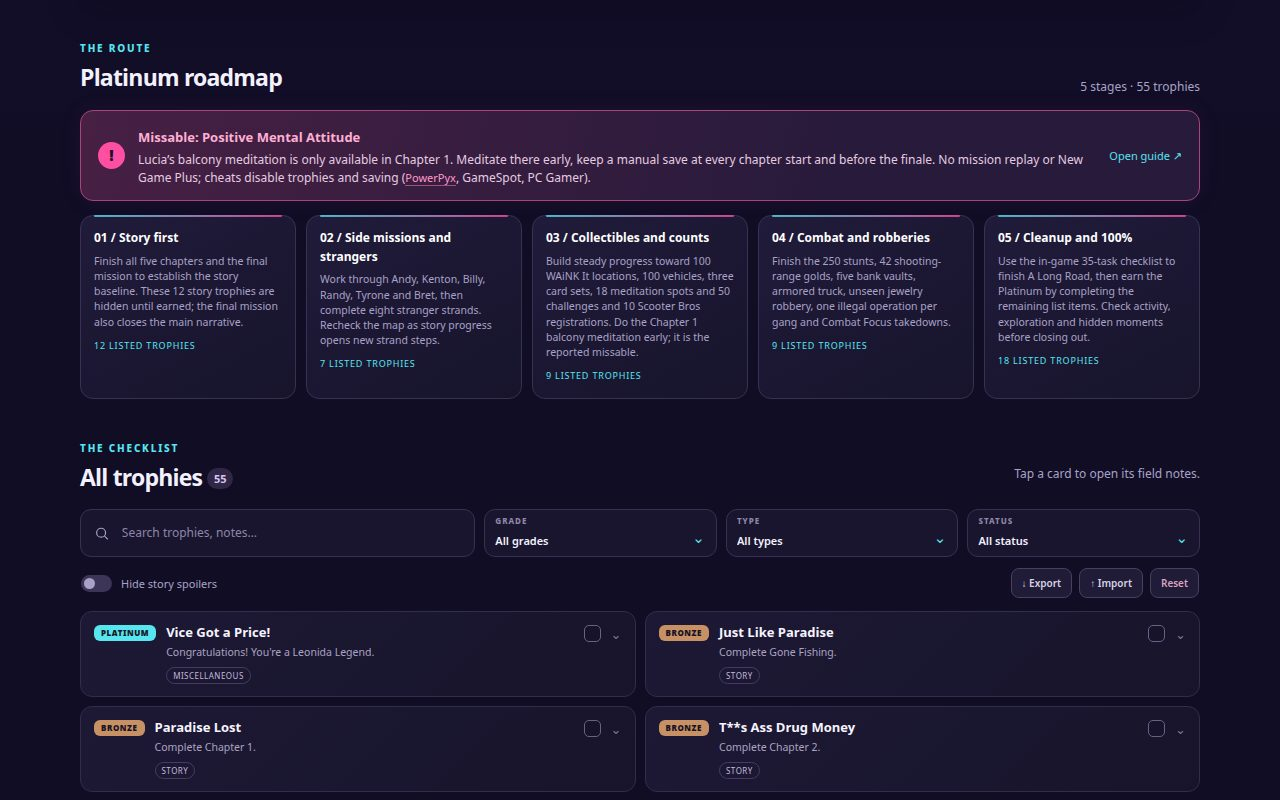
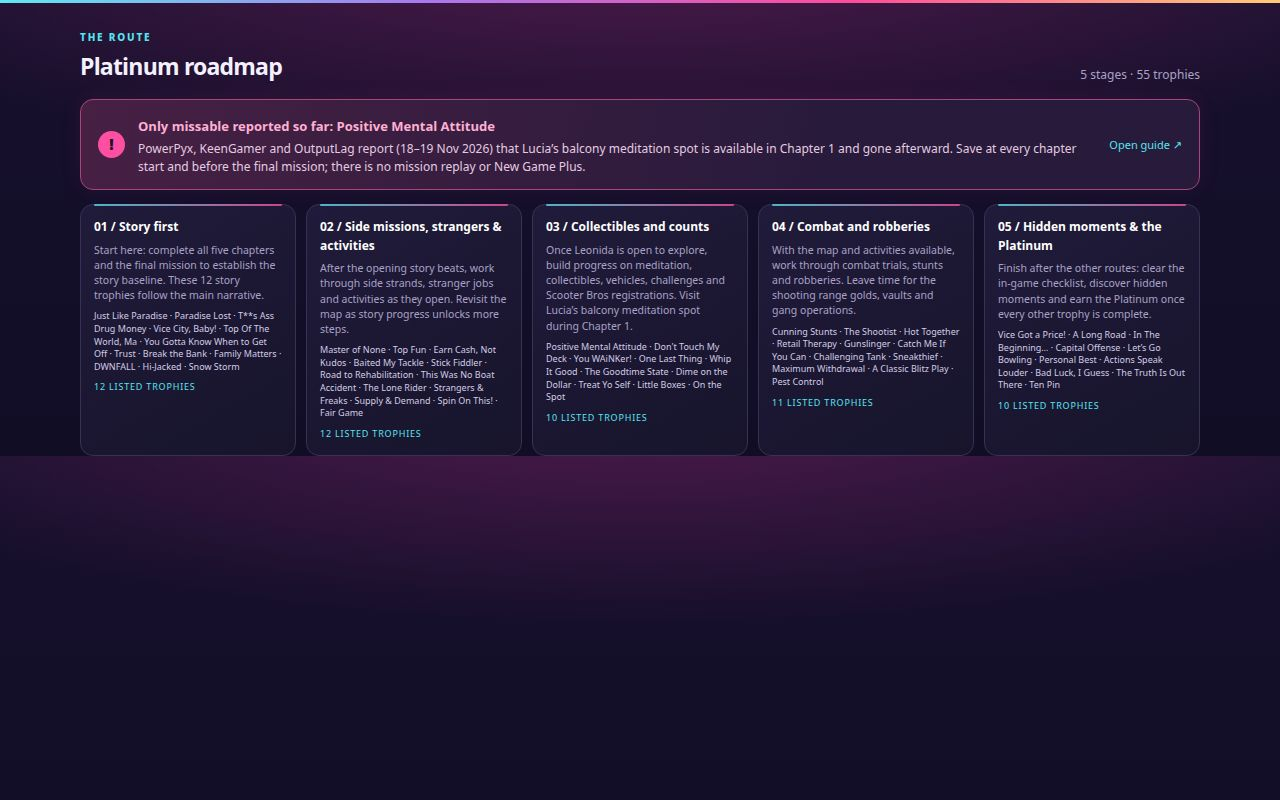
Polish trophy atlas roadmap and captures

diff --git a/app/style.css b/app/style.css
@@ -1,4 +1,9 @@
-:root{color-scheme:dark;--bg:#100d25;--panel:#19152f;--panel2:#211b3d;--line:#383154;--ink:#f4f1ff;--muted:#aaa2c6;--pink:#ff4fa3;--cyan:#57e5ef;--gold:#ffcf70;--silver:#c5c8d5;--bronze:#c89165;--radius:16px}*{box-sizing:border-box}html{scroll-behavior:smooth}body{margin:0;background:radial-gradient(ellipse 100% 360px at 50% -80px,rgba(201,48,143,.35),transparent 70%),linear-gradient(180deg,#17102d 0,#100d25 480px);color:var(--ink);font:15px/1.55 system-ui,-apple-system,"Segoe UI",sans-serif}.top-glow{position:absolute;inset:0 0 auto;height:3px;background:linear-gradient(90deg,#5eeaf1,#a879ee,#ff4c9b,#ffcb76)}.site-header,main,footer{width:min(1120px,calc(100% - 48px));margin-inline:auto}.site-header{display:flex;align-items:center;gap:19px;padding:45px 0 26px}.brand-mark{width:64px;height:64px;display:grid;place-items:center;border:1px solid rgba(87,229,239,.6);border-radius:18px;transform:rotate(-5deg);background:linear-gradient(145deg,rgba(87,229,239,.15),rgba(255,79,163,.15));box-shadow:0 0 35px rgba(255,79,163,.12)}.brand-mark span{font-weight:850;font-size:25px;letter-spacing:-2px;color:var(--cyan);transform:rotate(5deg)}.brand-copy{flex:1}.eyebrow{margin:0;color:var(--cyan);font-size:10px;font-weight:800;letter-spacing:.18em}.brand-copy h1{margin:3px 0 0;font-size:clamp(26px,4vw,40px);line-height:1.08;letter-spacing:-.045em}.brand-copy h1 em{font-style:normal;color:#ff83bf}.subtitle{margin:7px 0 0;color:var(--muted);font-size:14px}.completion-ring{width:76px;height:76px;border:2px solid rgba(87,229,239,.65);border-radius:50%;display:flex;flex-direction:column;align-items:center;justify-content:center;box-shadow:inset 0 0 20px #57e5ef13,0 0 23px #57e5ef11}.completion-ring strong{font-size:21px;line-height:1;color:var(--cyan)}.completion-ring span{font-size:9px;text-transform:uppercase;letter-spacing:.08em;color:var(--muted);margin-top:4px}.progress-panel{padding:19px 22px 15px;border:1px solid var(--line);border-radius:var(--radius);background:linear-gradient(110deg,#201735,#18142f 65%,#191a37);box-shadow:0 12px 35px #09061744}.progress-head{display:flex;align-items:center;justify-content:space-between}.progress-head h2{margin:1px 0 0;font-size:20px}.progress-note,.section-meta{color:var(--muted);font-size:12px}.progress-track{height:8px;border-radius:10px;background:#342c4e;margin:15px 0 12px;overflow:hidden}.progress-track span{height:100%;width:0;display:block;border-radius:inherit;background:linear-gradient(90deg,var(--cyan),#a185ff,var(--pink));transition:width .25s;box-shadow:0 0 14px #ff4fa366}.grade-counts{display:flex;gap:22px;flex-wrap:wrap}.grade-count{display:flex;gap:6px;align-items:center;font-size:11px;color:var(--muted)}.grade-count b{color:var(--ink);font-size:12px}.grade-dot{width:7px;height:7px;border-radius:50%;background:var(--grade)}.roadmap-section,.tracker-section{padding-top:35px}.section-heading{display:flex;align-items:end;justify-content:space-between;margin-bottom:14px}.section-heading h2{font-size:23px;letter-spacing:-.035em;margin:2px 0 0}.missable-banner{display:flex;gap:13px;align-items:center;padding:14px 17px;margin-bottom:14px;border:1px solid #a6467c;border-radius:13px;background:linear-gradient(100deg,#472044,#271a3b 70%);box-shadow:0 0 24px #ff4fa312}.alert-icon{display:grid;place-items:center;width:27px;height:27px;flex:none;border-radius:50%;background:#ff4fa3;color:#210e29;font-weight:900}.missable-banner strong{font-size:13px;color:#ffafd4}.missable-banner p{margin:3px 0 0;color:#e4cce0;font-size:12px;line-height:1.45}.missable-banner a{margin-left:auto;white-space:nowrap;color:var(--cyan);font-size:11px;text-decoration:none}.roadmap-grid{display:grid;grid-template-columns:repeat(5,1fr);gap:10px}.roadmap-card{position:relative;min-height:136px;padding:13px 13px 12px;background:linear-gradient(150deg,#201b3a,#17142c);border:1px solid var(--line);border-radius:13px}.roadmap-card:before{position:absolute;content:"";left:13px;right:13px;top:-1px;height:2px;background:linear-gradient(90deg,var(--cyan),var(--pink));opacity:.75;border-radius:4px}.roadmap-card h3{margin:0 0 6px;color:#fff;font-size:12px}.roadmap-card p{margin:0;color:var(--muted);font-size:10.5px;line-height:1.45}.stage-count{display:inline-block;margin-top:9px;color:var(--cyan);font-size:9px;letter-spacing:.09em;text-transform:uppercase}.tracker-heading{margin-top:1px}.tracker-heading h2 span{display:inline-grid;place-items:center;vertical-align:3px;min-width:26px;height:21px;padding:0 6px;border-radius:11px;background:#302746;color:#d9c5ef;font-size:11px;letter-spacing:0}.toolbar{display:grid;grid-template-columns:minmax(220px,1.7fr) repeat(3,minmax(130px,1fr));gap:9px}.search-box,.select-wrap{height:48px;display:flex;align-items:center;background:#19152e;border:1px solid var(--line);border-radius:11px}.search-box{padding:0 13px;gap:10px}.search-box svg{width:17px;height:17px;fill:none;stroke:var(--muted);stroke-width:1.8}.search-box input{width:100%;background:none;border:0;outline:0;color:var(--ink);font:inherit;font-size:12px}.search-box input::placeholder{color:#8d85a9}.select-wrap{position:relative;padding:5px 10px 3px;display:block}.select-wrap span{display:block;color:#8f87aa;font-size:8px;letter-spacing:.12em;font-weight:800}.select-wrap select{width:100%;padding:0 13px 0 0;border:0;outline:0;background:transparent;color:var(--ink);font:600 11px system-ui;appearance:none}.select-wrap:after{content:"⌄";position:absolute;right:11px;bottom:7px;color:var(--cyan);pointer-events:none}.select-wrap option{background:#19152e}.toolbar-bottom{display:flex;justify-content:space-between;align-items:center;margin:11px 1px 13px}.spoiler-switch{display:flex;align-items:center;gap:9px;color:var(--muted);font-size:11px;cursor:pointer}.spoiler-switch input{position:absolute;opacity:0}.switch-ui{width:31px;height:17px;background:#3c3557;border-radius:10px;position:relative;transition:.18s}.switch-ui:after{content:"";position:absolute;top:3px;left:3px;width:11px;height:11px;border-radius:50%;background:#aaa2c6;transition:.18s}.spoiler-switch input:checked+.switch-ui{background:#87426c}.spoiler-switch input:checked+.switch-ui:after{left:17px;background:#ff8aba}.data-actions{display:flex;gap:7px}.quiet-button{display:inline-flex;align-items:center;justify-content:center;gap:4px;min-height:30px;padding:4px 10px;border:1px solid #48405e;border-radius:8px;background:#201b36;color:#d9d3e9;font:600 10px system-ui;text-decoration:none;cursor:pointer}.quiet-button:hover{border-color:var(--cyan);color:var(--cyan)}.import-button input{display:none}.reset-button{color:#d9a4c3}.trophy-list{display:grid;grid-template-columns:repeat(2,minmax(0,1fr));gap:9px}.trophy-card{align-self:start;background:linear-gradient(135deg,#1d1935,#17142b);border:1px solid #332c4b;border-radius:12px;overflow:hidden;transition:border-color .15s,transform .15s}.trophy-card:hover{border-color:#63527d;transform:translateY(-1px)}.trophy-card.is-earned{border-color:#306067;background:linear-gradient(135deg,#192836,#17152e)}.card-top{display:flex;align-items:flex-start;gap:10px;padding:12px 13px;cursor:pointer}.grade-badge{flex:none;margin-top:1px;padding:3px 7px;border-radius:6px;color:#171326;background:var(--grade);font-size:8px;line-height:1.2;font-weight:900;letter-spacing:.07em;text-transform:uppercase}.grade-platinum{--grade:var(--cyan)}.grade-gold{--grade:var(--gold)}.grade-silver{--grade:var(--silver)}.grade-bronze{--grade:var(--bronze)}.card-copy{min-width:0;flex:1}.card-copy h3{font-size:13px;line-height:1.3;margin:0;color:#f7f3ff}.card-copy p{font-size:10.5px;line-height:1.4;color:#aba4c1;margin:4px 0 0}.card-tags{display:flex;gap:5px;flex-wrap:wrap;margin-top:7px}.tag{padding:2px 6px;border:1px solid #453c60;border-radius:20px;color:#c4badb;font-size:8px;line-height:1.4;text-transform:uppercase;letter-spacing:.06em}.tag.missable{border-color:#a6467c;background:#5a2447;color:#ffadd2}.earned-check{flex:none;display:flex;align-items:center;margin:1px 0 0;cursor:pointer}.earned-check input{appearance:none;width:17px;height:17px;margin:0;border:1px solid #6b6188;border-radius:5px;background:#17132a;cursor:pointer}.earned-check input:checked{border-color:var(--cyan);background:var(--cyan)}.earned-check input:checked:after{content:"✓";display:block;text-align:center;color:#11152a;font-size:12px;font-weight:900;line-height:15px}.expand-cue{color:#817797;font-size:13px;transition:transform .15s}.trophy-card.is-open .expand-cue{transform:rotate(180deg);color:var(--pink)}.guide-panel{display:none;padding:0 13px 13px 46px}.trophy-card.is-open .guide-panel{display:block}.guide-panel h4{margin:0 0 4px;color:var(--cyan);font-size:9px;letter-spacing:.11em;text-transform:uppercase}.guide-panel p{margin:0;color:#d3cde2;font-size:11px;line-height:1.55}.source-list{display:flex;gap:5px;flex-wrap:wrap;margin-top:6px}.source-list a{color:#ff8abd;font-size:10px;text-decoration:none;border-bottom:1px solid #944d79}.source-list a:hover{color:var(--cyan);border-color:var(--cyan)}.empty-state{text-align:center;color:var(--muted);padding:35px}.sr-only{position:absolute;width:1px;height:1px;padding:0;margin:-1px;overflow:hidden;clip:rect(0,0,0,0);white-space:nowrap;border:0}footer{display:flex;justify-content:space-between;padding:30px 0 24px;margin-top:30px;border-top:1px solid #302944;color:#776f91;font-size:9px;letter-spacing:.1em}footer span:last-child{letter-spacing:0}@media(max-width:850px){.roadmap-grid{grid-template-columns:repeat(3,1fr)}.toolbar{grid-template-columns:1fr 1fr}.search-box{grid-column:span 2}.trophy-list{grid-template-columns:1fr}}@media(max-width:560px){.site-header,main,footer{width:calc(100% - 28px)}.site-header{padding-top:28px;gap:12px}.brand-mark{width:48px;height:48px;border-radius:14px}.brand-mark span{font-size:20px}.completion-ring{width:59px;height:59px}.completion-ring strong{font-size:17px}.brand-copy h1{font-size:24px}.subtitle{font-size:12px}.progress-panel{padding:15px}.progress-note{display:none}.grade-counts{gap:11px}.roadmap-grid{grid-template-columns:1fr 1fr}.roadmap-card:last-child{grid-column:span 2}.roadmap-card{min-height:130px}.missable-banner{align-items:flex-start}.missable-banner a{display:none}.section-heading h2{font-size:21px}.toolbar{gap:7px}.toolbar-bottom{align-items:flex-start;gap:12px;flex-direction:column}.data-actions{width:100%}.data-actions>*{flex:1}.tracker-heading .section-meta{max-width:120px;text-align:right}.card-top{padding:11px}.guide-panel{padding-left:40px}footer{font-size:8px}}
+:root{color-scheme:dark;--bg:#100d25;--panel:#19152f;--panel2:#211b3d;--line:#383154;--ink:#f4f1ff;--muted:#aaa2c6;--pink:#ff4fa3;--cyan:#57e5ef;--gold:#ffcf70;--silver:#c5c8d5;--bronze:#c89165;--radius:16px}*{box-sizing:border-box}html{scroll-behavior:auto}body{margin:0;background:radial-gradient(ellipse 100% 360px at 50% -80px,rgba(201,48,143,.35),transparent 70%),linear-gradient(180deg,#17102d 0,#100d25 480px);color:var(--ink);font:15px/1.55 system-ui,-apple-system,"Segoe UI",sans-serif}.top-glow{position:absolute;inset:0 0 auto;height:3px;background:linear-gradient(90deg,#5eeaf1,#a879ee,#ff4c9b,#ffcb76)}.site-header,main,footer{width:min(1120px,calc(100% - 48px));margin-inline:auto}.site-header{display:flex;align-items:center;gap:19px;padding:45px 0 26px}.brand-mark{width:64px;height:64px;display:grid;place-items:center;border:1px solid rgba(87,229,239,.6);border-radius:18px;transform:rotate(-5deg);background:linear-gradient(145deg,rgba(87,229,239,.15),rgba(255,79,163,.15));box-shadow:0 0 35px rgba(255,79,163,.12)}.brand-mark span{font-weight:850;font-size:25px;letter-spacing:-2px;color:var(--cyan);transform:rotate(5deg)}.brand-copy{flex:1}.eyebrow{margin:0;color:var(--cyan);font-size:10px;font-weight:800;letter-spacing:.18em}.brand-copy h1{margin:3px 0 0;font-size:clamp(26px,4vw,40px);line-height:1.08;letter-spacing:-.045em}.brand-copy h1 em{font-style:normal;color:#ff83bf}.subtitle{margin:7px 0 0;color:var(--muted);font-size:14px}.completion-ring{width:76px;height:76px;border:2px solid rgba(87,229,239,.65);border-radius:50%;display:flex;flex-direction:column;align-items:center;justify-content:center;box-shadow:inset 0 0 20px #57e5ef13,0 0 23px #57e5ef11}.completion-ring strong{font-size:21px;line-height:1;color:var(--cyan)}.completion-ring span{font-size:9px;text-transform:uppercase;letter-spacing:.08em;color:var(--muted);margin-top:4px}.progress-panel{padding:19px 22px 15px;border:1px solid var(--line);border-radius:var(--radius);background:linear-gradient(110deg,#201735,#18142f 65%,#191a37);box-shadow:0 12px 35px #09061744}.progress-head{display:flex;align-items:center;justify-content:space-between}.progress-head h2{margin:1px 0 0;font-size:20px}.progress-note,.section-meta{color:var(--muted);font-size:12px}.progress-track{height:8px;border-radius:10px;background:#342c4e;margin:15px 0 12px;overflow:hidden}.progress-track span{height:100%;width:0;display:block;border-radius:inherit;background:linear-gradient(90deg,var(--cyan),#a185ff,var(--pink));transition:width .25s;box-shadow:0 0 14px #ff4fa366}.grade-counts{display:flex;gap:22px;flex-wrap:wrap}.grade-count{display:flex;gap:6px;align-items:center;font-size:11px;color:var(--muted)}.grade-count b{color:var(--ink);font-size:12px}.grade-dot{width:7px;height:7px;border-radius:50%;background:var(--grade)}.roadmap-section,.tracker-section{padding-top:35px}.section-heading{display:flex;align-items:end;justify-content:space-between;margin-bottom:14px}.section-heading h2{font-size:23px;letter-spacing:-.035em;margin:2px 0 0}.missable-banner{display:flex;gap:13px;align-items:center;padding:14px 17px;margin-bottom:14px;border:1px solid #a6467c;border-radius:13px;background:linear-gradient(100deg,#472044,#271a3b 70%);box-shadow:0 0 24px #ff4fa312}.alert-icon{display:grid;place-items:center;width:27px;height:27px;flex:none;border-radius:50%;background:#ff4fa3;color:#210e29;font-weight:900}.missable-banner strong{font-size:13px;color:#ffafd4}.missable-banner p{margin:3px 0 0;color:#e4cce0;font-size:12px;line-height:1.45}.missable-banner a{margin-left:auto;white-space:nowrap;color:var(--cyan);font-size:11px;text-decoration:none}.roadmap-grid{display:grid;grid-template-columns:repeat(5,1fr);gap:10px}.roadmap-card{position:relative;min-height:136px;padding:13px 13px 12px;background:linear-gradient(150deg,#201b3a,#17142c);border:1px solid var(--line);border-radius:13px}.roadmap-card:before{position:absolute;content:"";left:13px;right:13px;top:-1px;height:2px;background:linear-gradient(90deg,var(--cyan),var(--pink));opacity:.75;border-radius:4px}.roadmap-card h3{margin:0 0 6px;color:#fff;font-size:12px}.roadmap-card p{margin:0;color:var(--muted);font-size:10.5px;line-height:1.45}.stage-count{display:inline-block;margin-top:9px;color:var(--cyan);font-size:9px;letter-spacing:.09em;text-transform:uppercase}.tracker-heading{margin-top:1px}.tracker-heading h2 span{display:inline-grid;place-items:center;vertical-align:3px;min-width:26px;height:21px;padding:0 6px;border-radius:11px;background:#302746;color:#d9c5ef;font-size:11px;letter-spacing:0}.toolbar{display:grid;grid-template-columns:minmax(220px,1.7fr) repeat(3,minmax(130px,1fr));gap:9px}.search-box,.select-wrap{height:48px;display:flex;align-items:center;background:#19152e;border:1px solid var(--line);border-radius:11px}.search-box{padding:0 13px;gap:10px}.search-box svg{width:17px;height:17px;fill:none;stroke:var(--muted);stroke-width:1.8}.search-box input{width:100%;background:none;border:0;outline:0;color:var(--ink);font:inherit;font-size:12px}.search-box input::placeholder{color:#8d85a9}.select-wrap{position:relative;padding:5px 10px 3px;display:block}.select-wrap span{display:block;color:#8f87aa;font-size:8px;letter-spacing:.12em;font-weight:800}.select-wrap select{width:100%;padding:0 13px 0 0;border:0;outline:0;background:transparent;color:var(--ink);font:600 11px system-ui;appearance:none}.select-wrap:after{content:"⌄";position:absolute;right:11px;bottom:7px;color:var(--cyan);pointer-events:none}.select-wrap option{background:#19152e}.toolbar-bottom{display:flex;justify-content:space-between;align-items:center;margin:11px 1px 13px}.spoiler-switch{display:flex;align-items:center;gap:9px;color:var(--muted);font-size:11px;cursor:pointer}.spoiler-switch input{position:absolute;opacity:0}.switch-ui{width:31px;height:17px;background:#3c3557;border-radius:10px;position:relative;transition:.18s}.switch-ui:after{content:"";position:absolute;top:3px;left:3px;width:11px;height:11px;border-radius:50%;background:#aaa2c6;transition:.18s}.spoiler-switch input:checked+.switch-ui{background:#87426c}.spoiler-switch input:checked+.switch-ui:after{left:17px;background:#ff8aba}.data-actions{display:flex;gap:7px}.quiet-button{display:inline-flex;align-items:center;justify-content:center;gap:4px;min-height:30px;padding:4px 10px;border:1px solid #48405e;border-radius:8px;background:#201b36;color:#d9d3e9;font:600 10px system-ui;text-decoration:none;cursor:pointer}.quiet-button:hover{border-color:var(--cyan);color:var(--cyan)}.import-button input{display:none}.reset-button{color:#d9a4c3}.trophy-list{display:grid;grid-template-columns:repeat(2,minmax(0,1fr));gap:9px}.trophy-card{align-self:start;background:linear-gradient(135deg,#1d1935,#17142b);border:1px solid #332c4b;border-radius:12px;overflow:hidden;transition:border-color .15s,transform .15s}.trophy-card:hover{border-color:#63527d;transform:translateY(-1px)}.trophy-card.is-earned{border-color:#306067;background:linear-gradient(135deg,#192836,#17152e)}.card-top{display:flex;align-items:flex-start;gap:10px;padding:12px 13px;cursor:pointer}.grade-badge{flex:none;margin-top:1px;padding:3px 7px;border-radius:6px;color:#171326;background:var(--grade);font-size:8px;line-height:1.2;font-weight:900;letter-spacing:.07em;text-transform:uppercase}.grade-platinum{--grade:var(--cyan)}.grade-gold{--grade:var(--gold)}.grade-silver{--grade:var(--silver)}.grade-bronze{--grade:var(--bronze)}.card-copy{min-width:0;flex:1}.card-copy h3{font-size:13px;line-height:1.3;margin:0;color:#f7f3ff}.card-copy p{font-size:10.5px;line-height:1.4;color:#aba4c1;margin:4px 0 0}.card-tags{display:flex;gap:5px;flex-wrap:wrap;margin-top:7px}.tag{padding:2px 6px;border:1px solid #453c60;border-radius:20px;color:#c4badb;font-size:8px;line-height:1.4;text-transform:uppercase;letter-spacing:.06em}.tag.missable{border-color:#a6467c;background:#5a2447;color:#ffadd2}.earned-check{flex:none;display:flex;align-items:center;margin:1px 0 0;cursor:pointer}.earned-check input{appearance:none;width:17px;height:17px;margin:0;border:1px solid #6b6188;border-radius:5px;background:#17132a;cursor:pointer}.earned-check input:checked{border-color:var(--cyan);background:var(--cyan)}.earned-check input:checked:after{content:"✓";display:block;text-align:center;color:#11152a;font-size:12px;font-weight:900;line-height:15px}.expand-cue{color:#817797;font-size:13px;transition:transform .15s}.trophy-card.is-open .expand-cue{transform:rotate(180deg);color:var(--pink)}.guide-panel{display:none;padding:0 13px 13px 46px}.trophy-card.is-open .guide-panel{display:block}.guide-panel h4{margin:0 0 4px;color:var(--cyan);font-size:9px;letter-spacing:.11em;text-transform:uppercase}.guide-panel p{margin:0;color:#d3cde2;font-size:11px;line-height:1.55}.source-list{display:flex;gap:5px;flex-wrap:wrap;margin-top:6px}.source-list a{color:#ff8abd;font-size:10px;text-decoration:none;border-bottom:1px solid #944d79}.source-list a:hover{color:var(--cyan);border-color:var(--cyan)}.empty-state{text-align:center;color:var(--muted);padding:35px}.sr-only{position:absolute;width:1px;height:1px;padding:0;margin:-1px;overflow:hidden;clip:rect(0,0,0,0);white-space:nowrap;border:0}footer{display:flex;justify-content:space-between;padding:30px 0 24px;margin-top:30px;border-top:1px solid #302944;color:#776f91;font-size:9px;letter-spacing:.1em}footer span:last-child{letter-spacing:0}@media(max-width:850px){.roadmap-grid{grid-template-columns:repeat(3,1fr)}.toolbar{grid-template-columns:1fr 1fr}.search-box{grid-column:span 2}.trophy-list{grid-template-columns:1fr}}@media(max-width:560px){.site-header,main,footer{width:calc(100% - 28px)}.site-header{padding-top:28px;gap:12px}.brand-mark{width:48px;height:48px;border-radius:14px}.brand-mark span{font-size:20px}.completion-ring{width:59px;height:59px}.completion-ring strong{font-size:17px}.brand-copy h1{font-size:24px}.subtitle{font-size:12px}.progress-panel{padding:15px}.progress-note{display:none}.grade-counts{gap:11px}.roadmap-grid{grid-template-columns:1fr 1fr}.roadmap-card:last-child{grid-column:span 2}.roadmap-card{min-height:130px}.missable-banner{align-items:flex-start}.missable-banner a{display:none}.section-heading h2{font-size:21px}.toolbar{gap:7px}.toolbar-bottom{align-items:flex-start;gap:12px;flex-direction:column}.data-actions{width:100%}.data-actions>*{flex:1}.tracker-heading .section-meta{max-width:120px;text-align:right}.card-top{padding:11px}.guide-panel{padding-left:40px}footer{font-size:8px}}
 /* A compact capture route keeps the dashboard, filters and the first cards together at 1280×800. */
 body.cover-capture{zoom:.8}body.cover-capture .site-header,body.cover-capture main,body.cover-capture footer{width:min(1400px,calc(100% - 48px))}
 .missable-banner p a{color:#ff9aca;text-decoration:none;border-bottom:1px solid #9d547a}.missable-banner p a:hover{color:var(--cyan)}
+
+.roadmap-card .stage-trophies{margin-top:7px;color:#d4cce6;font-size:9px;line-height:1.4}.roadmap-card .stage-count{margin-top:7px}footer{display:block;line-height:1.7;letter-spacing:0}footer span:first-child{display:block;margin-bottom:4px;letter-spacing:.1em}footer span:last-child{display:block}
+
+body.guide-capture .site-header,body.guide-capture .progress-panel,body.guide-capture .roadmap-section,body.guide-capture .tracker-heading,body.guide-capture .toolbar,body.guide-capture .toolbar-bottom,body.guide-capture footer{display:none}body.guide-capture .tracker-section{padding-top:24px}body.guide-capture .trophy-card:not(#trophy-28){display:none}body.roadmap-capture .site-header,body.roadmap-capture .progress-panel,body.roadmap-capture .tracker-section,body.roadmap-capture footer{display:none}body.roadmap-capture .roadmap-section{padding-top:24px}body.filter-capture .site-header,body.filter-capture .progress-panel,body.filter-capture .roadmap-section,body.filter-capture footer{display:none}body.filter-capture .tracker-section{padding-top:24px}
+body.cover-capture .roadmap-section,body.cover-capture .tracker-section{padding-top:16px}body.cover-capture .tracker-heading{margin-bottom:7px}body.cover-capture .toolbar,body.cover-capture .toolbar-bottom{display:none}body.cover-capture .trophy-list{grid-template-columns:repeat(3,minmax(0,1fr))}

diff --git a/app/app.js b/app/app.js
@@ -43,7 +43,7 @@ function renderRoadmap() {
     <article class="roadmap-card">
       <h3>${escapeText(stage.title)}</h3>
       <p>${escapeText(stage.summary)}</p>
-      <span class="stage-count">${stage.trophyIds.length} listed trophies</span>
+      <p class="stage-trophies">${stage.trophyIds.map(id => trophyData.trophies.find(trophy => trophy.id === id)?.name).filter(Boolean).map(escapeText).join(" · ")}</p><span class="stage-count">${stage.trophyIds.length} listed trophies</span>
     </article>`).join('');
 }
 
@@ -170,20 +170,23 @@ async function importProgress(file) {
 
 function applyHashState() {
   const hash = location.hash;
-  document.body.classList.toggle('cover-capture', hash === '#cover');
+  document.body.classList.toggle('cover-capture', hash === '#cover' || hash === '#demo-earned');
+  document.body.classList.toggle('guide-capture', hash === '#trophy-28');
+  document.body.classList.toggle('roadmap-capture', hash === '#roadmap');
+  document.body.classList.toggle('filter-capture', hash.includes('='));
+  if (hash === '#demo-earned') {
+    earnedIds = new Set([2, 3, 14, 28, 31, 40]);
+    renderTrophies();
+    return;
+  }
   if (hash === '#spoilers-on') {
     setSpoilerPreference(true);
     renderTrophies();
     setTimeout(() => document.querySelector('#tracker').scrollIntoView(), 250);
     return;
   }
-  if (hash === '#demo-earned') {
-    earnedIds = new Set([1, 2, 14, 28, 31, 40, 52]);
-    renderTrophies();
-    return;
-  }
   if (hash === '#roadmap') {
-    setTimeout(() => document.querySelector('#roadmap').scrollIntoView(), 250);
+    renderTrophies();
     return;
   }
   const match = hash.match(/^#trophy-(\d+)$/);
@@ -199,10 +202,20 @@ function applyHashState() {
       if (card) {
         card.classList.add('is-open');
         card.querySelector('.card-top').setAttribute('aria-expanded', 'true');
-        card.scrollIntoView({ block: 'center' });
       }
     }, 300);
+    return;
   }
+  if (hash.includes('=')) {
+    ui.search.value = '';
+    ui.grade.value = 'all'; ui.kind.value = 'all'; ui.earned.value = 'all';
+    const params = new URLSearchParams(hash.slice(1));
+    if (['platinum','gold','silver','bronze','all'].includes(params.get('grade'))) ui.grade.value = params.get('grade');
+    if (['story','activity','collectible','robbery','combat','exploration','missable','all'].includes(params.get('kind'))) ui.kind.value = params.get('kind');
+    if (['earned','not-earned','all'].includes(params.get('status'))) ui.earned.value = params.get('status');
+    if (params.get('spoilers') === 'on' || params.get('spoilers') === 'off') setSpoilerPreference(params.get('spoilers') === 'on');
+  }
+  renderTrophies();
 }
 
 function connectControls() {

diff --git a/app/index.html b/app/index.html
@@ -5,6 +5,7 @@
   <meta name="viewport" content="width=device-width, initial-scale=1">
   <meta name="theme-color" content="#100d25">
   <title>Leonida Trophy Atlas — GTA VI</title>
+  <link rel="icon" href="favicon.svg">
   <link rel="stylesheet" href="style.css">
 </head>
 <body>
@@ -22,7 +23,7 @@
     </section>
     <section class="roadmap-section" id="roadmap">
       <div class="section-heading"><div><span class="eyebrow">THE ROUTE</span><h2>Platinum roadmap</h2></div><span class="section-meta">5 stages · 55 trophies</span></div>
-      <div class="missable-banner"><span class="alert-icon" aria-hidden="true">!</span><div><strong>Missable: Positive Mental Attitude</strong><p>Lucia’s balcony meditation is only available in Chapter 1. Meditate there early, keep a manual save at every chapter start and before the finale. No mission replay or New Game Plus; cheats disable trophies and saving (<a href="https://www.powerpyx.com/" target="_blank" rel="noreferrer">PowerPyx</a>, GameSpot, PC Gamer).</p></div><a href="#trophy-28">Open guide ↗</a></div>
+      <div class="missable-banner"><span class="alert-icon" aria-hidden="true">!</span><div><strong>Only missable reported so far: Positive Mental Attitude</strong><p>PowerPyx, KeenGamer and OutputLag report (18–19 Nov 2026) that Lucia’s balcony meditation spot is available in Chapter 1 and gone afterward. Save at every chapter start and before the final mission; there is no mission replay or New Game Plus.</p></div><a href="#trophy-28">Open guide ↗</a></div>
       <div id="roadmap-cards" class="roadmap-grid"></div>
     </section>
     <section class="tracker-section" id="tracker">
@@ -38,7 +39,7 @@
       <p id="empty-state" class="empty-state" hidden>No trophies match those filters. Try another route.</p>
     </section>
   </main>
-  <footer><span>LEONIDA TROPHY ATLAS</span><span>Unofficial field guide · works offline</span></footer>
+  <footer><span>LEONIDA TROPHY ATLAS</span><span>Official list: Exophase, 18 Nov 2026, cross-checked with PSNProfiles · Platinum ≈200h, difficulty 4/10 (OutputLag, 19 Nov 2026) · Story ≈60h (VGC, Push Square) · Cheats disable trophies and saving (PowerPyx, GameSpot, PC Gamer) · Guides written for this app in original wording; sources are linked on each trophy card.</span></footer>
   <script type="module" src="app.js"></script>
 </body>
 </html>
